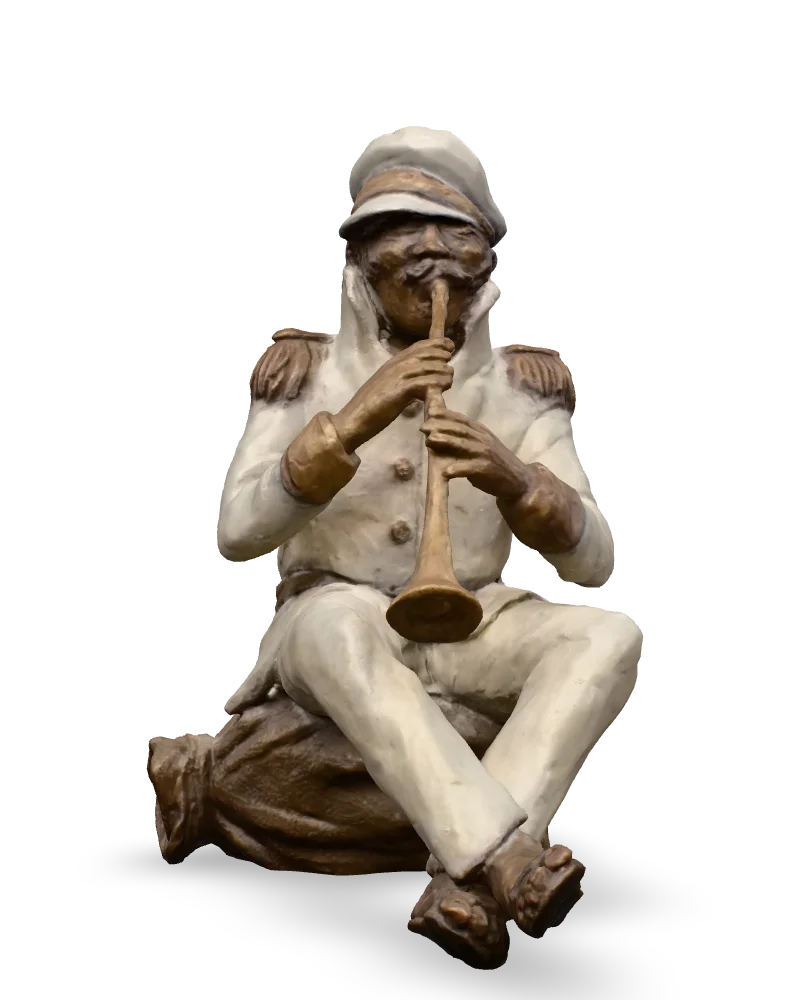
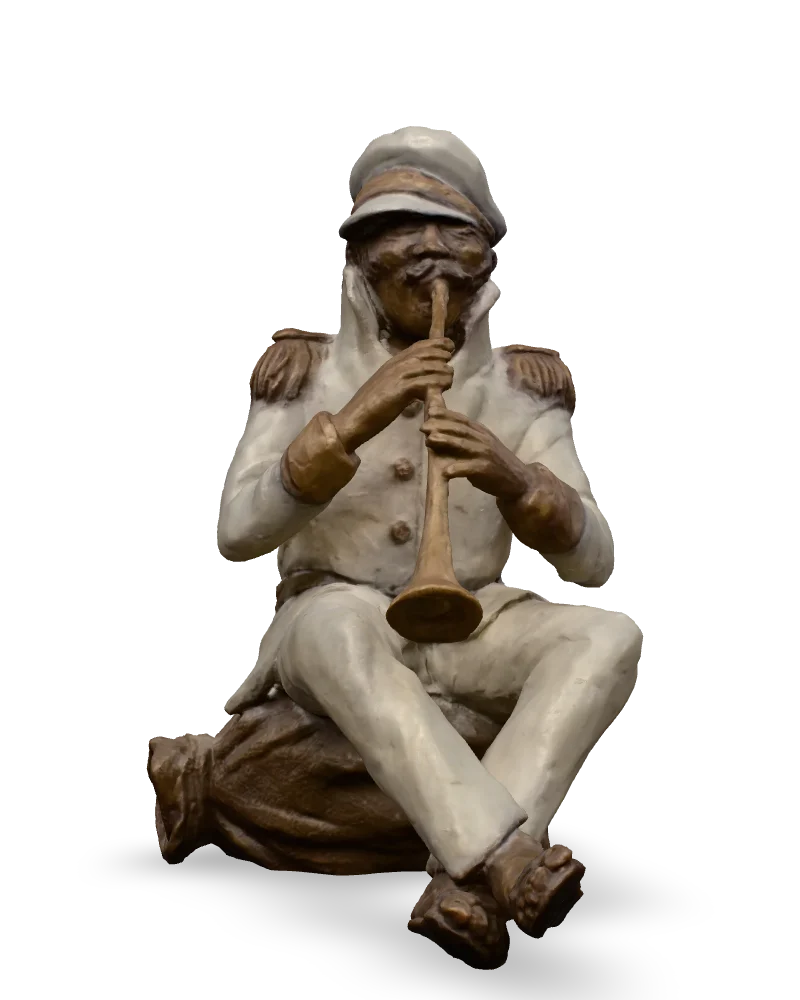
Dimmer cards for three Khanna bandsmen
Their white uniforms looked too bright on the light card plate while
the artwork-page viewer, on its dark backdrop, looked right. New
`look.cardLight` dims light and reflections on the card only (thumbnail
and hover preview, which must match); these three use 0.72.

Changed region(s): [[0.1875, 0.124, 0.8125, 0.93], [0.3438, 0.527, 0.375, 0.558]]

diff --git a/lib/sculptures.ts b/lib/sculptures.ts
@@ -89,6 +89,12 @@ export interface ArtworkLook {
    * "previous" is the earlier filmic studio light.
    */
   rig?: "previous";
+  /**
+   * Extra light multiplier on the catalogue card only (thumbnail and hover
+   * preview), not the artwork page's viewer, where a dark backdrop makes a
+   * light-coloured work look dimmer.
+   */
+  cardLight?: number;
 }
 
 /** AR height for works whose real height (`heightCm`) isn't known yet. */
@@ -396,9 +402,9 @@ export const sculptures: Sculpture[] = [
     title: "Retd Captain Ramesh Kumar Accordian Walae",
     description: "",
     artistSlug: "krishen-khanna",
-    thumbnail: "/thumbnails/khanna-retd-captain-ramesh-kumar-accordian-walae.webp?v=3",
+    thumbnail: "/thumbnails/khanna-retd-captain-ramesh-kumar-accordian-walae.webp?v=4",
     modelUrl: "/sculptures/khanna-retd-captain-ramesh-kumar-accordian-walae.glb",
-    look: { metalness: 0.2, roughness: 1.6, reflections: 0.6 },
+    look: { metalness: 0.2, roughness: 1.6, reflections: 0.6, cardLight: 0.72 },
     facing: 65,
     material: "Bronze",
     year: "",
@@ -413,9 +419,9 @@ export const sculptures: Sculpture[] = [
     title: "Rajinder Kaka Horn Walae",
     description: "",
     artistSlug: "krishen-khanna",
-    thumbnail: "/thumbnails/khanna-rajinder-kaka-horn-walae.webp?v=3",
+    thumbnail: "/thumbnails/khanna-rajinder-kaka-horn-walae.webp?v=4",
     modelUrl: "/sculptures/khanna-rajinder-kaka-horn-walae.glb",
-    look: { metalness: 0.2, roughness: 1.6, reflections: 0.6 },
+    look: { metalness: 0.2, roughness: 1.6, reflections: 0.6, cardLight: 0.72 },
     facing: 250,
     material: "Bronze",
     year: "",
@@ -430,9 +436,9 @@ export const sculptures: Sculpture[] = [
     title: "Davinder Raj Tutu Walae",
     description: "",
     artistSlug: "krishen-khanna",
-    thumbnail: "/thumbnails/khanna-davinder-raj-tutu-walae.webp?v=3",
+    thumbnail: "/thumbnails/khanna-davinder-raj-tutu-walae.webp?v=4",
     modelUrl: "/sculptures/khanna-davinder-raj-tutu-walae.glb",
-    look: { metalness: 0.2, roughness: 1.6, reflections: 0.6 },
+    look: { metalness: 0.2, roughness: 1.6, reflections: 0.6, cardLight: 0.72 },
     facing: 330,
     material: "Bronze",
     year: "",

diff --git a/components/SculptureScene.tsx b/components/SculptureScene.tsx
@@ -452,6 +452,8 @@ export const SculptureContents: FC<
     isThumb?: boolean;
     /** Show the spinner while the model loads (needs a DOM-attached canvas). */
     loader?: boolean;
+    /** A catalogue card's hover preview: lit like the thumbnail (look.cardLight). */
+    card?: boolean;
   }
 > = ({
   url,
@@ -471,9 +473,13 @@ export const SculptureContents: FC<
   facing = 0,
   look,
   rig: rigName,
+  card = false,
 }) => {
   const camZ = 4.0 / (defaultZoom <= 0 ? 1 : defaultZoom);
-  const light = look?.light ?? 1;
+  // Thumbnails and card previews sit on a light plate, the viewer on its own
+  // backdrop, so a work can be lit differently on its card.
+  const cardLight = card || isThumb ? (look?.cardLight ?? 1) : 1;
+  const light = (look?.light ?? 1) * cardLight;
   const rig = rigFor(rigName ?? look?.rig);
   return (
     <>
@@ -513,7 +519,7 @@ export const SculptureContents: FC<
 
       {/* Reflections / specular for the bronze patina — procedural, no HDR download.
           Set per scene: three ignores a material's own envMapIntensity here. */}
-      <StudioEnvironment intensity={rig.reflections * (look?.reflections ?? 1)} />
+      <StudioEnvironment intensity={rig.reflections * (look?.reflections ?? 1) * cardLight} />
 
       <Suspense fallback={loader ? <Loader /> : null}>
         <RevealModel

diff --git a/components/three/TilePreview.tsx b/components/three/TilePreview.tsx
@@ -121,6 +121,7 @@ export default function TilePreview({
         autoRotate={autoRotate}
         onReady={onReady}
         loader={false}
+        card
       />,
     );
   }, [url, fit, facing, look, autoRotate, onReady]);

diff --git a/docs/lighting-progress.md b/docs/lighting-progress.md
@@ -18,6 +18,7 @@ Many scans looked "flashy". Painted works (Thota heads, Khanna bandsmen, …) we
   | `light` | multiplies every light |
   | `sideLights` | extra lights from left and right at face height (1 = key strength) |
   | `specular` | *sets* the paint's sheen 0–1 (fixes scans exported with 0) |
+  | `cardLight` | multiplies light and reflections on the catalogue card only (thumbnail + hover preview), not the artwork-page viewer |
   | `rig` | `"previous"` = use the old filmic light for this work (tone mapping set per scene, so it works in the shared hover renderer too) |
 
 - **Applied in** `components/SculptureScene.tsx`: `prepareMaterial` handles the material fixes for every work (transmission off, specular colour capped) plus `look`. `SculptureContents` builds the lights.
@@ -31,9 +32,10 @@ User's taste: **matte and natural, not shiny**. The user judges each work by eye
 | Painted heads | `{ metalness: 0, roughness: 2, reflections: 0.5, light: 0.9 }` | Ruby Saree, Polka-Dot Collar, Nose Ring |
 | … dimmer | same, `light: 0.65` | Dark Green Saree, Yellow Saree |
 | … brighter | same, `light: 1.2` | Side Braid |
-| Painted figures | `{ metalness: 0.2, roughness: 1.6, reflections: 0.6 }` | 9 Khanna bandsmen, Ganesha, Meri Patang |
+| Painted figures | `{ metalness: 0.2, roughness: 1.6, reflections: 0.6 }` | 6 Khanna bandsmen, Ganesha, Meri Patang |
 | … dimmer | same, `reflections: 0.51, light: 0.7` | Couple |
 | … brighter | same, `reflections: 0.9, light: 1.4` | Trumpeter |
+| … dimmer on the card only | same, `cardLight: 0.72` | Ramesh Kumar Accordian, Rajinder Kaka Horn, Davinder Raj Tutu (white uniforms glared on the light card plate; viewer was fine) |
 | Seated Bandsman | `{ light: 1.4, reflections: 1.5 }` | dark grey, needed lifting |
 | … brighter | same, `light: 1.3` | Dotted Saree, Man with Mridangam |
 | Blue Saree | `{ metalness: 0.2, roughness: 1.6, reflections: 1.2, light: 1.6 }` | dark bronze skin needed lifting |
